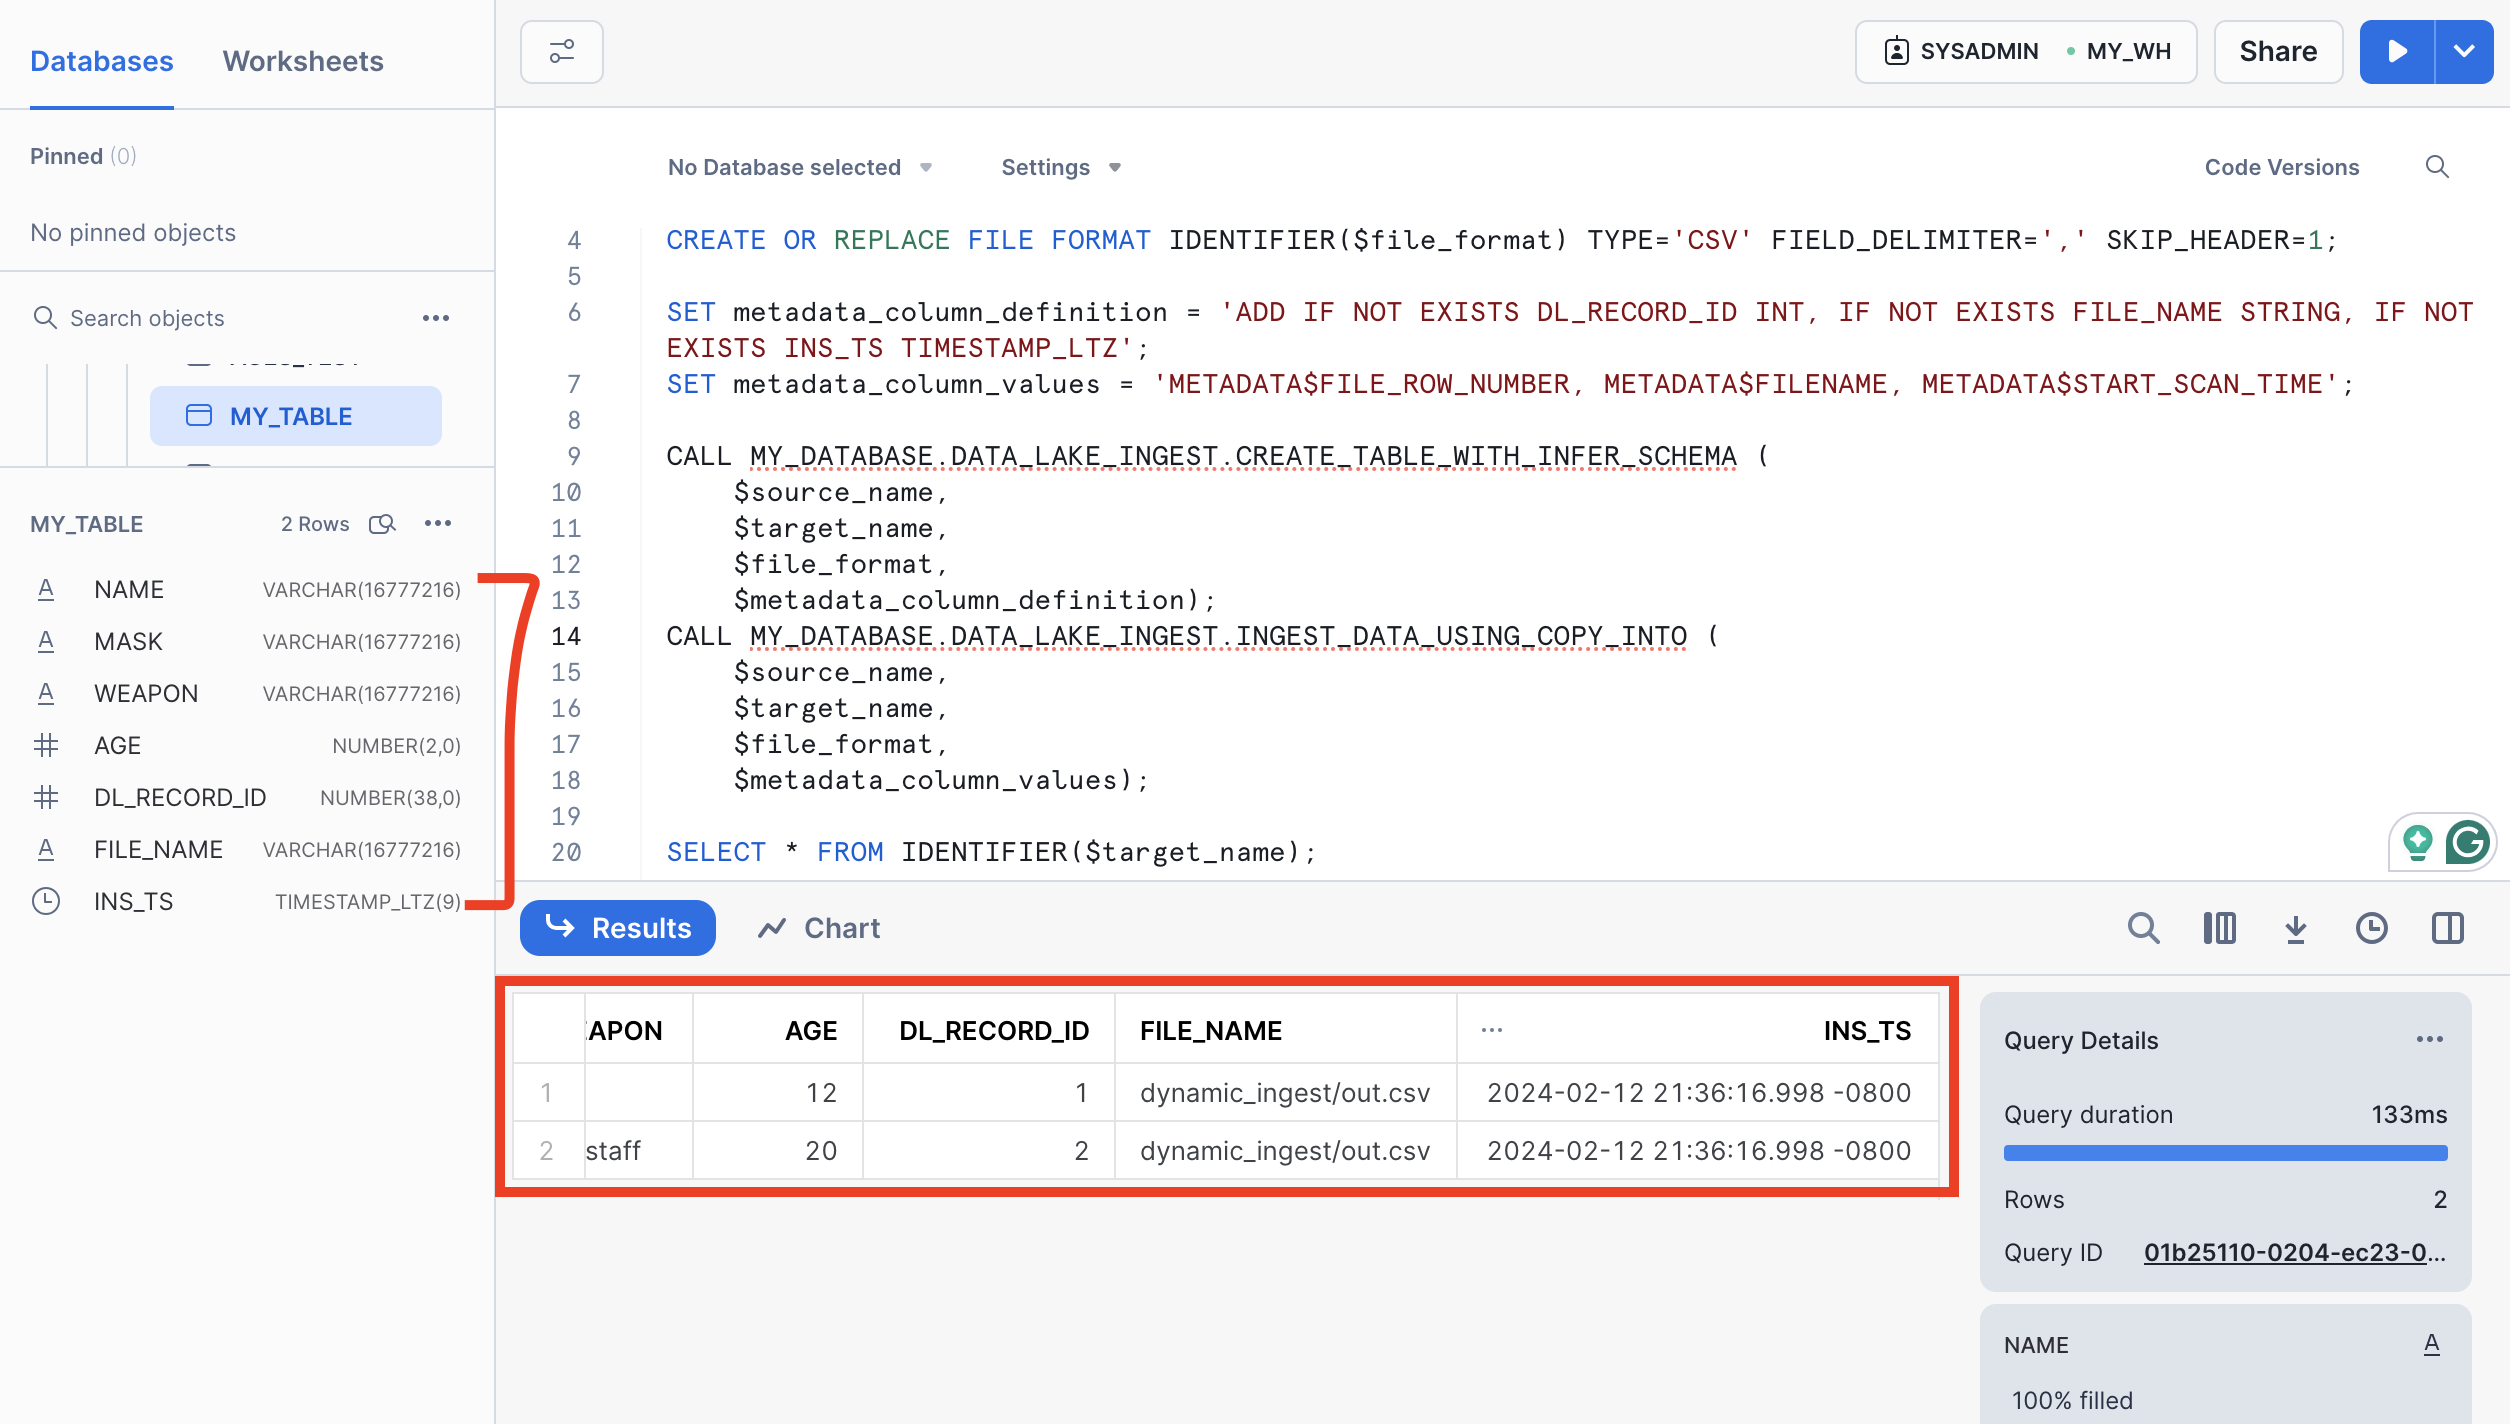
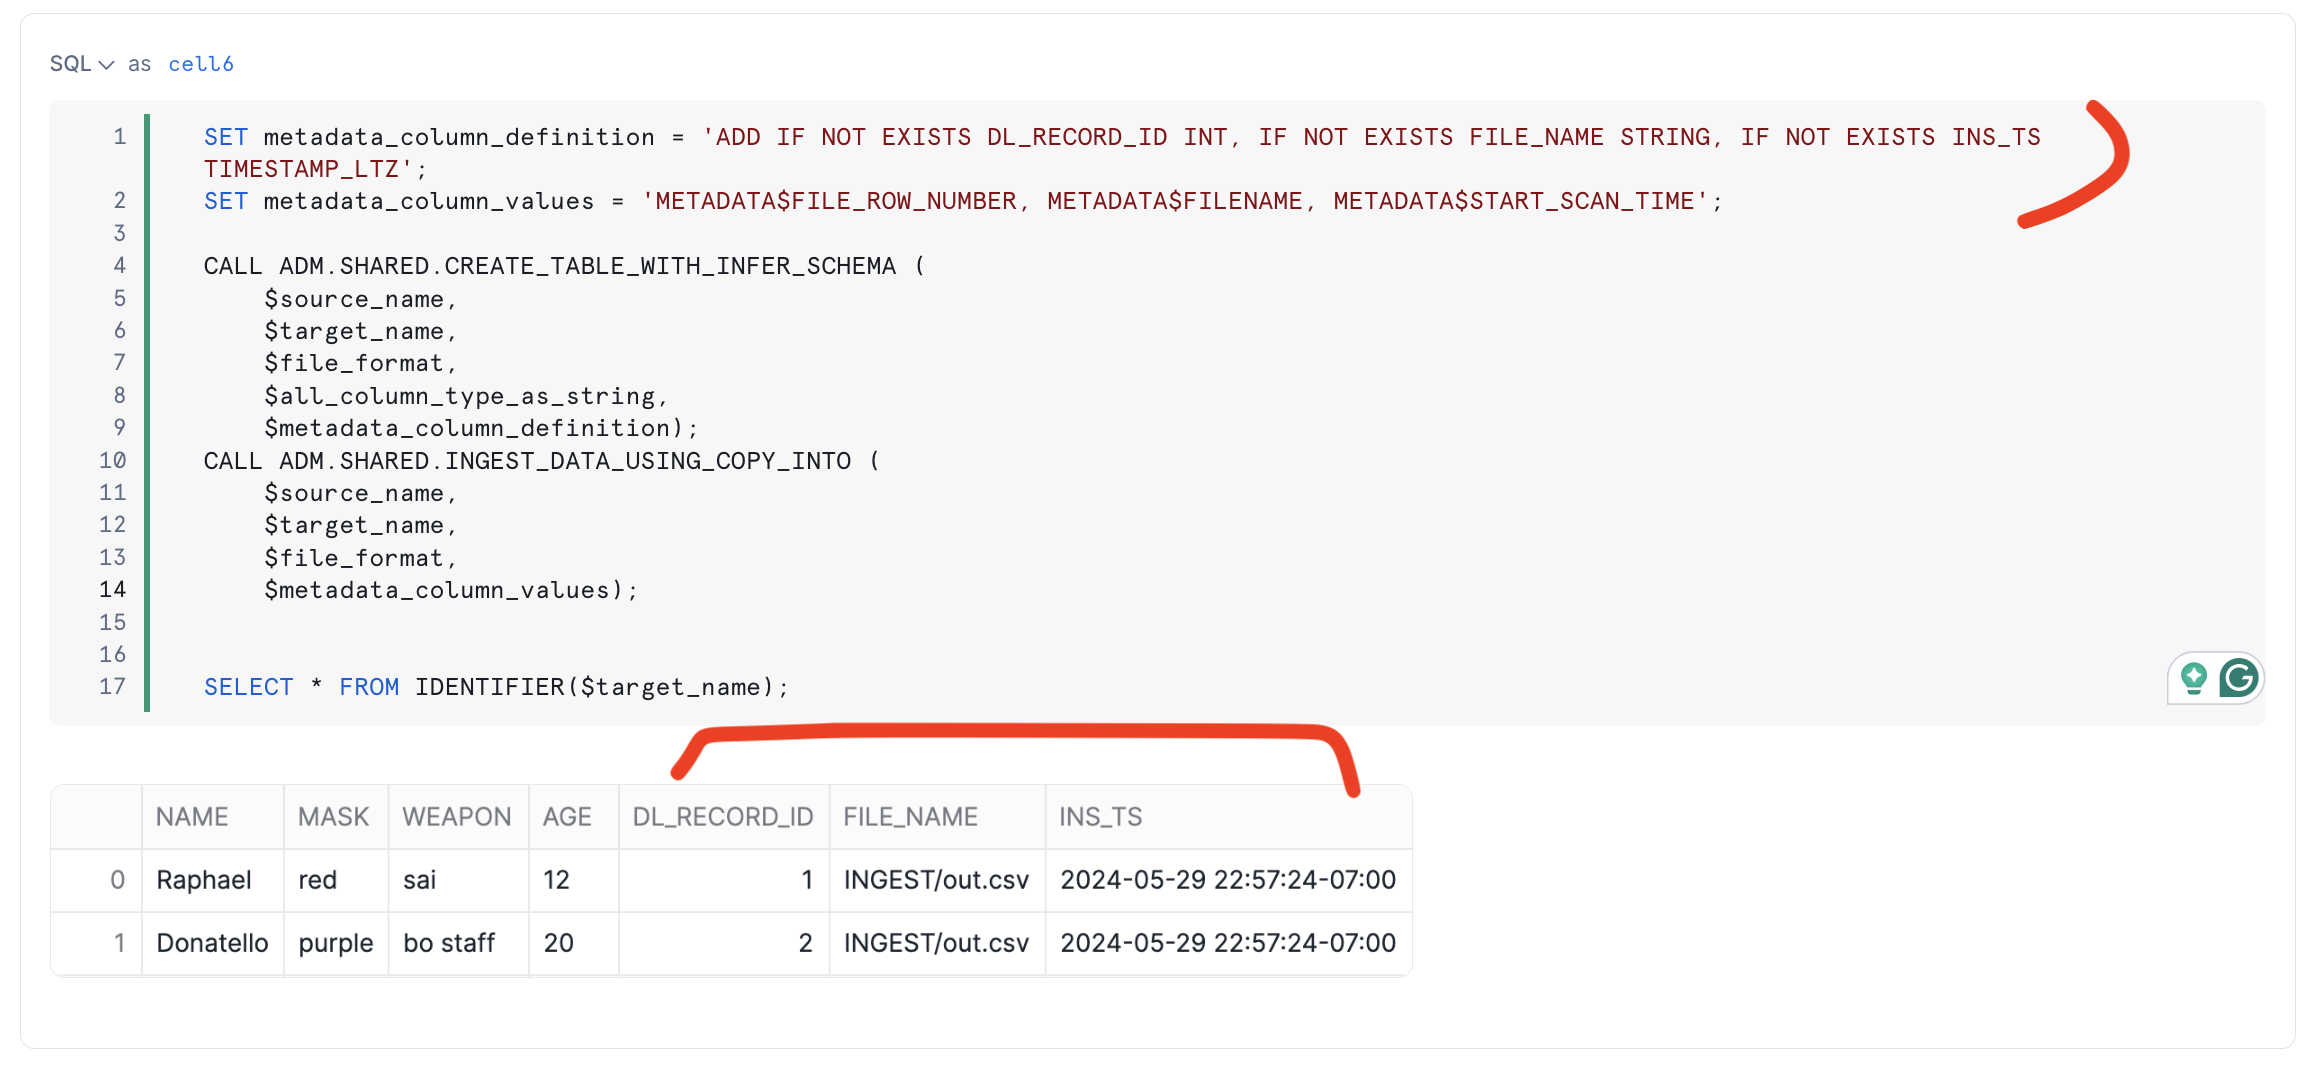
Add ability to set all column type as string

diff --git a/content/post/2024-02-12-ingest-data-to-snowflake-no-struggle-on-table-definition/index.md b/content/post/2024-02-12-ingest-data-to-snowflake-no-struggle-on-table-definition/index.md
@@ -13,20 +13,22 @@ draft: no
 ---
 One thing I learned from my work is that even though having proper table definition is good for the data standardization, sometimes we just want to have the data be ingested to Snowflake without worrying about if all the column types are 100% correct or not. 
 
-The following is the code I use for this case which can help me easily ingest data into snowflake with only 3 required parameters, `SOURCE_NAME`, `TARGET_NAME`, and `FILE_FORMAT`.
+The following is the code I use for this case which can help me easily ingest data into snowflake with only 4 main required parameters, `SOURCE_NAME`, `TARGET_NAME`, `FILE_FORMAT`, and `ALL_COLUMN_TYPE_AS_STRING`. Sometimes, when the dataset is large, it can be time consuming on infering schema. If we just want to create a table from the dataset and do not care about the column type, then we can set `ALL_COLUMN_TYPE_AS_STRING` as TRUE. 
 
 ```sql
-SET source_name = '@my_database.public.my_s3_stage/dynamic_ingest/';
-SET target_name = 'MY_DATABASE.DATA_LAKE_INGEST.MY_TABLE';
-SET file_format = 'MY_DATABASE.DATA_LAKE_INGEST.MY_FF';
+SET source_name = '@ODS.INGEST.my_s3_stage/out.csv';
+SET target_name = 'ODS.INGEST.MY_TABLE';
+SET file_format = 'ODS.INGEST.MY_FF';
+SET all_column_type_as_string = TRUE;
 CREATE OR REPLACE FILE FORMAT IDENTIFIER($file_format) TYPE='CSV' FIELD_DELIMITER=',' SKIP_HEADER=1;
 
-CALL MY_DATABASE.DATA_LAKE_INGEST.CREATE_TABLE_WITH_INFER_SCHEMA (
+CALL ADM.SHARED.CREATE_TABLE_WITH_INFER_SCHEMA (
     $source_name, 
     $target_name, 
     $file_format, 
+    $all_column_type_as_string,
     NULL);
-CALL MY_DATABASE.DATA_LAKE_INGEST.INGEST_DATA_USING_COPY_INTO (
+CALL ADM.SHARED.INGEST_DATA_USING_COPY_INTO (
     $source_name, 
     $target_name, 
     $file_format, 
@@ -41,12 +43,13 @@ SELECT * FROM IDENTIFIER($target_name);
 SET metadata_column_definition = 'ADD IF NOT EXISTS DL_RECORD_ID INT, IF NOT EXISTS FILE_NAME STRING, IF NOT EXISTS INS_TS TIMESTAMP_LTZ'; 
 SET metadata_column_values = 'METADATA$FILE_ROW_NUMBER, METADATA$FILENAME, METADATA$START_SCAN_TIME';
 
-CALL MY_DATABASE.DATA_LAKE_INGEST.CREATE_TABLE_WITH_INFER_SCHEMA (
+CALL ADM.SHARED.CREATE_TABLE_WITH_INFER_SCHEMA (
     $source_name, 
     $target_name, 
     $file_format, 
+    $all_column_type_as_string,
     $metadata_column_definition);
-CALL MY_DATABASE.DATA_LAKE_INGEST.INGEST_DATA_USING_COPY_INTO (
+CALL ADM.SHARED.INGEST_DATA_USING_COPY_INTO (
     $source_name, 
     $target_name, 
     $file_format, 
@@ -58,10 +61,11 @@ SELECT * FROM IDENTIFIER($target_name);
 <img src="./imgs/meta_columns.png" alt="meta_columns"/>
 
 ```sql
-CREATE OR REPLACE PROCEDURE MY_DATABASE.DATA_LAKE_INGEST.CREATE_TABLE_WITH_INFER_SCHEMA (
+CREATE OR REPLACE PROCEDURE ADM.SHARED.CREATE_TABLE_WITH_INFER_SCHEMA (
     SOURCE_NAME STRING,
     TARGET_NAME STRING,
     FILE_FORMAT STRING,
+    ALL_COLUMN_TYPE_AS_STRING BOOLEAN, -- FALSE, use infer schema to figure out the correct type, otherwise, all columns' type is STRING
     METADATA_COLUMN_DEFINITION STRING) -- NULL, if no columns needed to be added 
 RETURNS TABLE()
 LANGUAGE SQL
@@ -84,20 +88,42 @@ BEGIN
     RES := (EXECUTE IMMEDIATE :SQL_CREATE_FF_INFER);
     RES := (EXECUTE IMMEDIATE :SQL_ALTER_FF_INFER);
 
-    SELECT SQL_STATEMENT INTO :SQL_STATEMENT_CREATE_TABLE FROM (
-        SELECT CONCAT(CREATE_TBL_BEGIN,COL_LIST,');') AS SQL_STATEMENT
-                FROM (
-                        SELECT
-                            CONCAT('CREATE OR REPLACE TABLE ',:TARGET_NAME,' (') AS CREATE_TBL_BEGIN
-                            ,UPPER(REPLACE(GENERATE_COLUMN_DESCRIPTION(ARRAY_AGG(OBJECT_CONSTRUCT(*)), 'table'),'"','')) AS COL_LIST
-                        FROM TABLE(
-                            INFER_SCHEMA(
-                                LOCATION=> :SOURCE_NAME,
-                                FILE_FORMAT  => :FILE_FORMAT_INFER
+    IF (ALL_COLUMN_TYPE_AS_STRING) THEN
+        SELECT SQL_STATEMENT INTO :SQL_STATEMENT_CREATE_TABLE FROM (
+            SELECT CONCAT(CREATE_TBL_BEGIN,COL_LIST,');') AS SQL_STATEMENT
+                    FROM (
+                            SELECT
+                                CONCAT('CREATE OR REPLACE TABLE ',:TARGET_NAME,' (') AS CREATE_TBL_BEGIN
+                                ,UPPER(REPLACE(GENERATE_COLUMN_DESCRIPTION(ARRAY_AGG(OBJECT_CONSTRUCT(*)), 'table'),'"','')) AS COL_LIST
+                            FROM (
+                                SELECT COLUMN_NAME,'STRING' AS TYPE
+                                FROM TABLE(
+                                    INFER_SCHEMA(
+                                        LOCATION=> :SOURCE_NAME,
+                                        FILE_FORMAT  => :FILE_FORMAT_INFER,
+                                        MAX_RECORDS_PER_FILE => 1
+                                    )
+                                ) 
                             )
-                        ) 
-                )
-    );
+                    )
+        );
+    ELSE 
+        SELECT SQL_STATEMENT INTO :SQL_STATEMENT_CREATE_TABLE FROM (
+            SELECT CONCAT(CREATE_TBL_BEGIN,COL_LIST,');') AS SQL_STATEMENT
+                    FROM (
+                            SELECT
+                                CONCAT('CREATE OR REPLACE TABLE ',:TARGET_NAME,' (') AS CREATE_TBL_BEGIN
+                                ,UPPER(REPLACE(GENERATE_COLUMN_DESCRIPTION(ARRAY_AGG(OBJECT_CONSTRUCT(*)), 'table'),'"','')) AS COL_LIST
+                            FROM TABLE(
+                                INFER_SCHEMA(
+                                    LOCATION => :SOURCE_NAME,
+                                    FILE_FORMAT => :FILE_FORMAT_INFER
+                                )
+                            ) 
+                    )
+        );
+    END IF;
+        
     RES := (EXECUTE IMMEDIATE :SQL_STATEMENT_CREATE_TABLE);
     RES := (EXECUTE IMMEDIATE :SQL_DROP_FF_INFER);
 
@@ -110,7 +136,7 @@ BEGIN
     RETURN TABLE(RES);
 END;
 
-CREATE OR REPLACE PROCEDURE MY_DATABASE.DATA_LAKE_INGEST.INGEST_DATA_USING_COPY_INTO (
+CREATE OR REPLACE PROCEDURE ADM.SHARED.INGEST_DATA_USING_COPY_INTO (
     SOURCE_NAME STRING,     
     TARGET_NAME STRING, 
     FILE_FORMAT STRING, 
